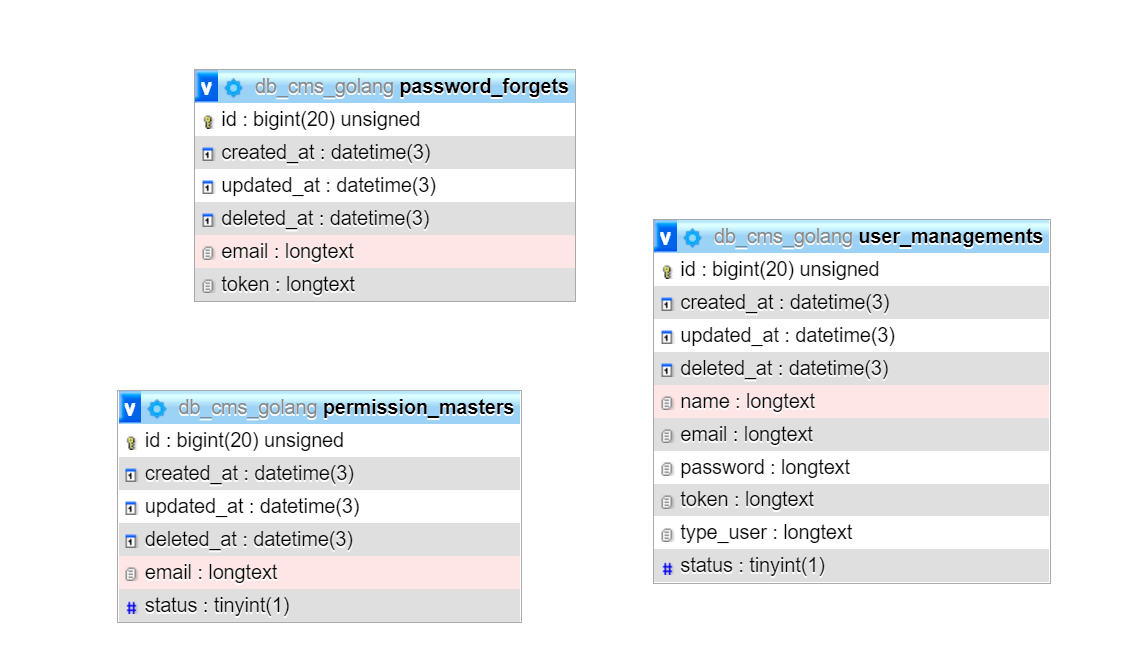
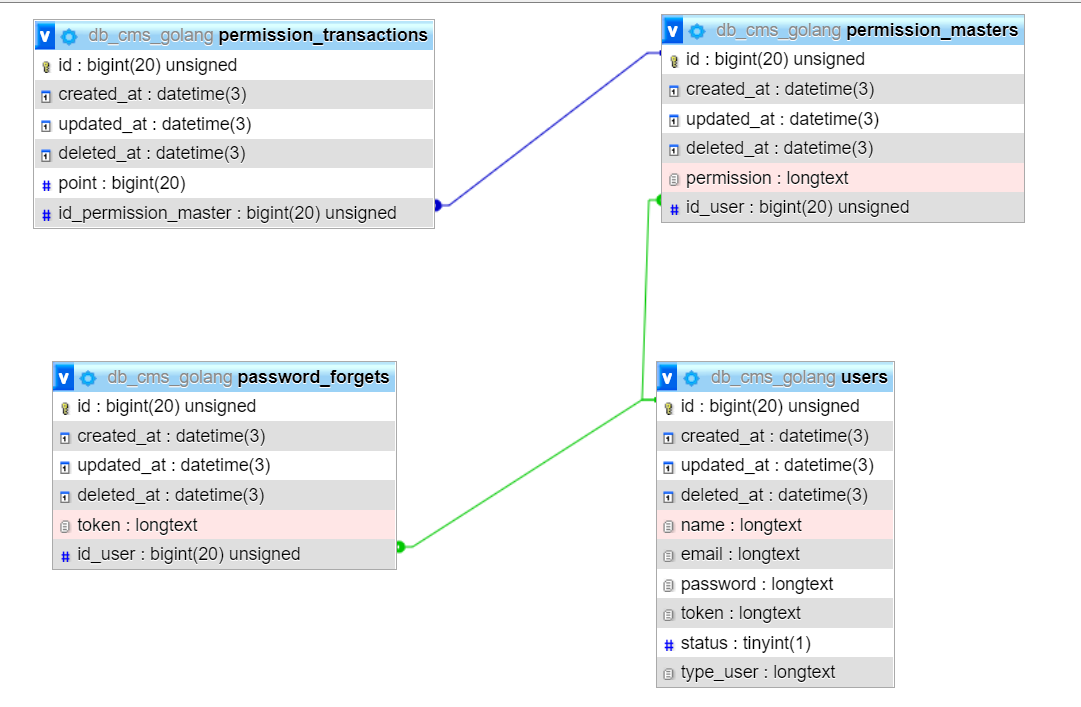
update model

diff --git a/lib/database/userManagement.go b/lib/database/userManagement.go
@@ -6,83 +6,83 @@ import (
 	"project/models"
 )
 
-func GetUserManagements() (interface{}, error) {
-	var userManagements []models.UserManagement
+func GetUsers() (interface{}, error) {
+	var users []models.User
 
-	if err := config.DB.Find(&userManagements).Error; err != nil {
+	if err := config.DB.Find(&users).Error; err != nil {
 		return nil, err
 	}
-	return userManagements, nil
+	return users, nil
 }
 
-func GetUserManagement(id int) (interface{}, error) {
-	var userManagement models.UserManagement
+func GetUser(id int) (interface{}, error) {
+	var user models.User
 
-	if err := config.DB.First(&userManagement, id).Error; err != nil {
+	if err := config.DB.First(&user, id).Error; err != nil {
 		return nil, err
 	}
-	return userManagement, nil
+	return user, nil
 }
 
-func DeleteUserManagement(id int) (interface{}, error) {
-	var userManagement models.UserManagement
-	if err := config.DB.First(&userManagement, id).Error; err != nil {
+func DeleteUser(id int) (interface{}, error) {
+	var user models.User
+	if err := config.DB.First(&user, id).Error; err != nil {
 		return nil, err
 	}
 
-	if deleteErr := config.DB.Delete(&userManagement).Error; deleteErr != nil {
+	if deleteErr := config.DB.Delete(&user).Error; deleteErr != nil {
 		return nil, deleteErr
 	}
 	return nil, nil
 }
 
-func UpdateUserManagement(id int, userManagement *models.UserManagement) (interface{}, error) {
-	var existingUserManagement models.UserManagement
-	if err := config.DB.First(&existingUserManagement, id).Error; err != nil {
+func UpdateUser(id int, user *models.User) (interface{}, error) {
+	var existingUser models.User
+	if err := config.DB.First(&existingUser, id).Error; err != nil {
 		return nil, err
 	}
 
-	existingUserManagement.Name = userManagement.Name
-	existingUserManagement.Email = userManagement.Email
-	if updateErr := config.DB.Save(&existingUserManagement).Error; updateErr != nil {
+	existingUser.Name = user.Name
+	existingUser.Email = user.Email
+	if updateErr := config.DB.Save(&existingUser).Error; updateErr != nil {
 		return nil, updateErr
 	}
 
-	return existingUserManagement, nil
+	return existingUser, nil
 }
 
-func CreateUserManagement(userManagement *models.UserManagement) (interface{}, error) {
-	if err := config.DB.Create(userManagement).Error; err != nil {
+func CreateUser(user *models.User) (interface{}, error) {
+	if err := config.DB.Create(user).Error; err != nil {
 		return nil, err
 	}
 
 	var err error
-	userManagement.Token, err = middlewares.CreateToken(int(userManagement.ID))
+	user.Token, err = middlewares.CreateToken(int(user.ID))
 	if err != nil {
 		return nil, err
 	}
 
-	if err := config.DB.Save(userManagement).Error; err != nil {
+	if err := config.DB.Save(user).Error; err != nil {
 		return nil, err
 	}
 
-	return userManagement, nil
+	return user, nil
 }
 
-func LoginUserManagements(userManagement *models.UserManagement) (interface{}, error) {
+func LoginUsers(user *models.User) (interface{}, error) {
 	var err error
-	if err = config.DB.Where("email = ? AND password = ?", userManagement.Email, userManagement.Password).First(userManagement).Error; err != nil {
+	if err = config.DB.Where("email = ? AND password = ?", user.Email, user.Password).First(user).Error; err != nil {
 		return nil, err
 	}
 
-	userManagement.Token, err = middlewares.CreateToken(int(userManagement.ID))
+	user.Token, err = middlewares.CreateToken(int(user.ID))
 	if err != nil {
 		return nil, err
 	}
 
-	if err := config.DB.Save(userManagement).Error; err != nil {
+	if err := config.DB.Save(user).Error; err != nil {
 		return nil, err
 	}
 
-	return userManagement, nil
+	return user, nil
 }

diff --git a/controllers/userController.go b/controllers/userController.go
@@ -1,0 +1,111 @@
+package controllers
+
+import (
+	"net/http"
+	"strconv"
+
+	"project/lib/database"
+	"project/models"
+
+	"github.com/labstack/echo"
+)
+
+func GetUsersController(c echo.Context) error {
+	users, err := database.GetUsers()
+
+	if err != nil {
+		return echo.NewHTTPError(http.StatusBadRequest, err.Error())
+	}
+
+	return c.JSON(http.StatusOK, map[string]interface{}{
+		"status": "success",
+		"users":  users,
+	})
+}
+
+func GetUserController(c echo.Context) error {
+	id, err := strconv.Atoi(c.Param("id"))
+	if err != nil {
+		return c.JSON(http.StatusBadRequest, map[string]interface{}{
+			"message": "failed to get a user, user with ID " + c.Param("id") + " is not found",
+		})
+	}
+
+	user, getErr := database.GetUser(id)
+	if getErr != nil {
+		return echo.NewHTTPError(http.StatusBadRequest, getErr.Error())
+	}
+
+	return c.JSON(http.StatusOK, map[string]interface{}{
+		"status": "success",
+		"user":   user,
+	})
+}
+
+func DeleteUserController(c echo.Context) error {
+	id, err := strconv.Atoi(c.Param("id"))
+	if err != nil {
+		return c.JSON(http.StatusNotFound, map[string]interface{}{
+			"message": "failed to get a user, user with ID " + c.Param("id") + " is not found",
+		})
+	}
+
+	if _, deleteErr := database.DeleteUser(id); deleteErr != nil {
+		return echo.NewHTTPError(http.StatusBadRequest, deleteErr.Error())
+	}
+
+	return c.JSON(http.StatusOK, map[string]interface{}{
+		"message": "success",
+	})
+}
+
+func UpdateUserController(c echo.Context) error {
+	id, err := strconv.Atoi(c.Param("id"))
+	if err != nil {
+		return c.JSON(http.StatusNotFound, map[string]interface{}{
+			"message": "failed to get a user, user with ID " + c.Param("id") + " is not found",
+		})
+	}
+
+	var updateUser models.User
+	c.Bind(&updateUser)
+	user, updateErr := database.UpdateUser(id, &updateUser)
+	if updateErr != nil {
+		return echo.NewHTTPError(http.StatusBadRequest, updateErr.Error())
+	}
+
+	return c.JSON(http.StatusOK, map[string]interface{}{
+		"status": "success",
+		"user":   user,
+	})
+}
+
+func CreateUserController(c echo.Context) error {
+	user := models.User{}
+	c.Bind(&user)
+
+	_, err := database.CreateUser(&user)
+
+	if err != nil {
+		return echo.NewHTTPError(http.StatusBadRequest, err.Error())
+	}
+
+	return c.JSON(http.StatusOK, map[string]interface{}{
+		"status": "success",
+		"user":   user,
+	})
+}
+
+func LoginUsersController(c echo.Context) error {
+	user := models.User{}
+	c.Bind(&user)
+
+	users, e := database.LoginUsers(&user)
+	if e != nil {
+		return echo.NewHTTPError(http.StatusBadRequest, e.Error())
+	}
+	return c.JSON(http.StatusOK, map[string]interface{}{
+		"status": "success login",
+		"users":  users,
+	})
+}

diff --git a/routes/routes.go b/routes/routes.go
@@ -11,17 +11,17 @@ import (
 func New() *echo.Echo {
 	e := echo.New()
 
-	e.POST("/login", controllers.LoginUserManagementsController)
+	e.POST("/login", controllers.LoginUsersController)
 
 	// JWT Group
 	r := e.Group("/jwt")
 	r.Use(middleware.JWT([]byte(constants.SECRET_JWT)))
 
-	r.GET("/user_managements", controllers.GetUserManagementsController)
-	r.GET("/user_managements/:id", controllers.GetUserManagementController)
-	r.DELETE("/user_managements/:id", controllers.DeleteUserManagementController)
-	r.PUT("/user_managements/:id", controllers.UpdateUserManagementController)
-	r.POST("/user_managements", controllers.CreateUserManagementController)
+	r.GET("/users", controllers.GetUsersController)
+	r.GET("/users/:id", controllers.GetUserController)
+	r.DELETE("/users/:id", controllers.DeleteUserController)
+	r.PUT("/users/:id", controllers.UpdateUserController)
+	r.POST("/users", controllers.CreateUserController)
 
 	return e
 }

diff --git a/models/permissionMasterTransaction.go b/models/permissionMasterTransaction.go
@@ -1,0 +1,12 @@
+package models
+
+import (
+	"github.com/jinzhu/gorm"
+)
+
+type PermissionTransaction struct {
+	gorm.Model
+	Point              int              `json:"point" form:"point"`
+	IdPermissionMaster string           `json:"id_permission_master" form:"id_permission_master"`
+	PermissionMaster   PermissionMaster `gorm:"foreignKey:IdPermissionMaster" json:"permission_master" form:"permission_master"`
+}

diff --git a/models/permissionMaster.go b/models/permissionMaster.go
@@ -6,6 +6,7 @@ import (
 
 type PermissionMaster struct {
 	gorm.Model
-	Email  string `json:"email" form:"email"`
-	Status bool   `json:"status" form:"status"`
+	Permission string `json:"permission" form:"permission"`
+	IdUser     string `json:"id_user" form:"id_user"`
+	User       User   `gorm:"foreignKey:IdUser" json:"user" form:"user"`
 }

diff --git a/models/passwordForget.go b/models/passwordForget.go
@@ -6,6 +6,7 @@ import (
 
 type PasswordForget struct {
 	gorm.Model
-	Email string `json:"email" form:"email"`
-	Token string `json:"token" form:"token"`
+	Token  string `json:"token" form:"token"`
+	IdUser int    `json:"id_user" form:"id_user"`
+	User   User   `gorm:"foreignKey:IdUser" json:"user" form:"user"`
 }

diff --git a/config/config.go b/config/config.go
@@ -40,6 +40,7 @@ func InitDB() {
 func InitMigrate() {
 	DB.AutoMigrate(&models.PasswordForget{})
 	DB.AutoMigrate(&models.PermissionMaster{})
-	DB.AutoMigrate(&models.UserManagement{})
+	DB.AutoMigrate(&models.PermissionTransaction{})
+	DB.AutoMigrate(&models.User{})
 
 }

diff --git a/models/user.go b/models/user.go
@@ -4,7 +4,7 @@ import (
 	"github.com/jinzhu/gorm"
 )
 
-type UserManagement struct {
+type User struct {
 	gorm.Model
 	Name     string `json:"name" form:"name"`
 	Email    string `json:"email" form:"email"`
